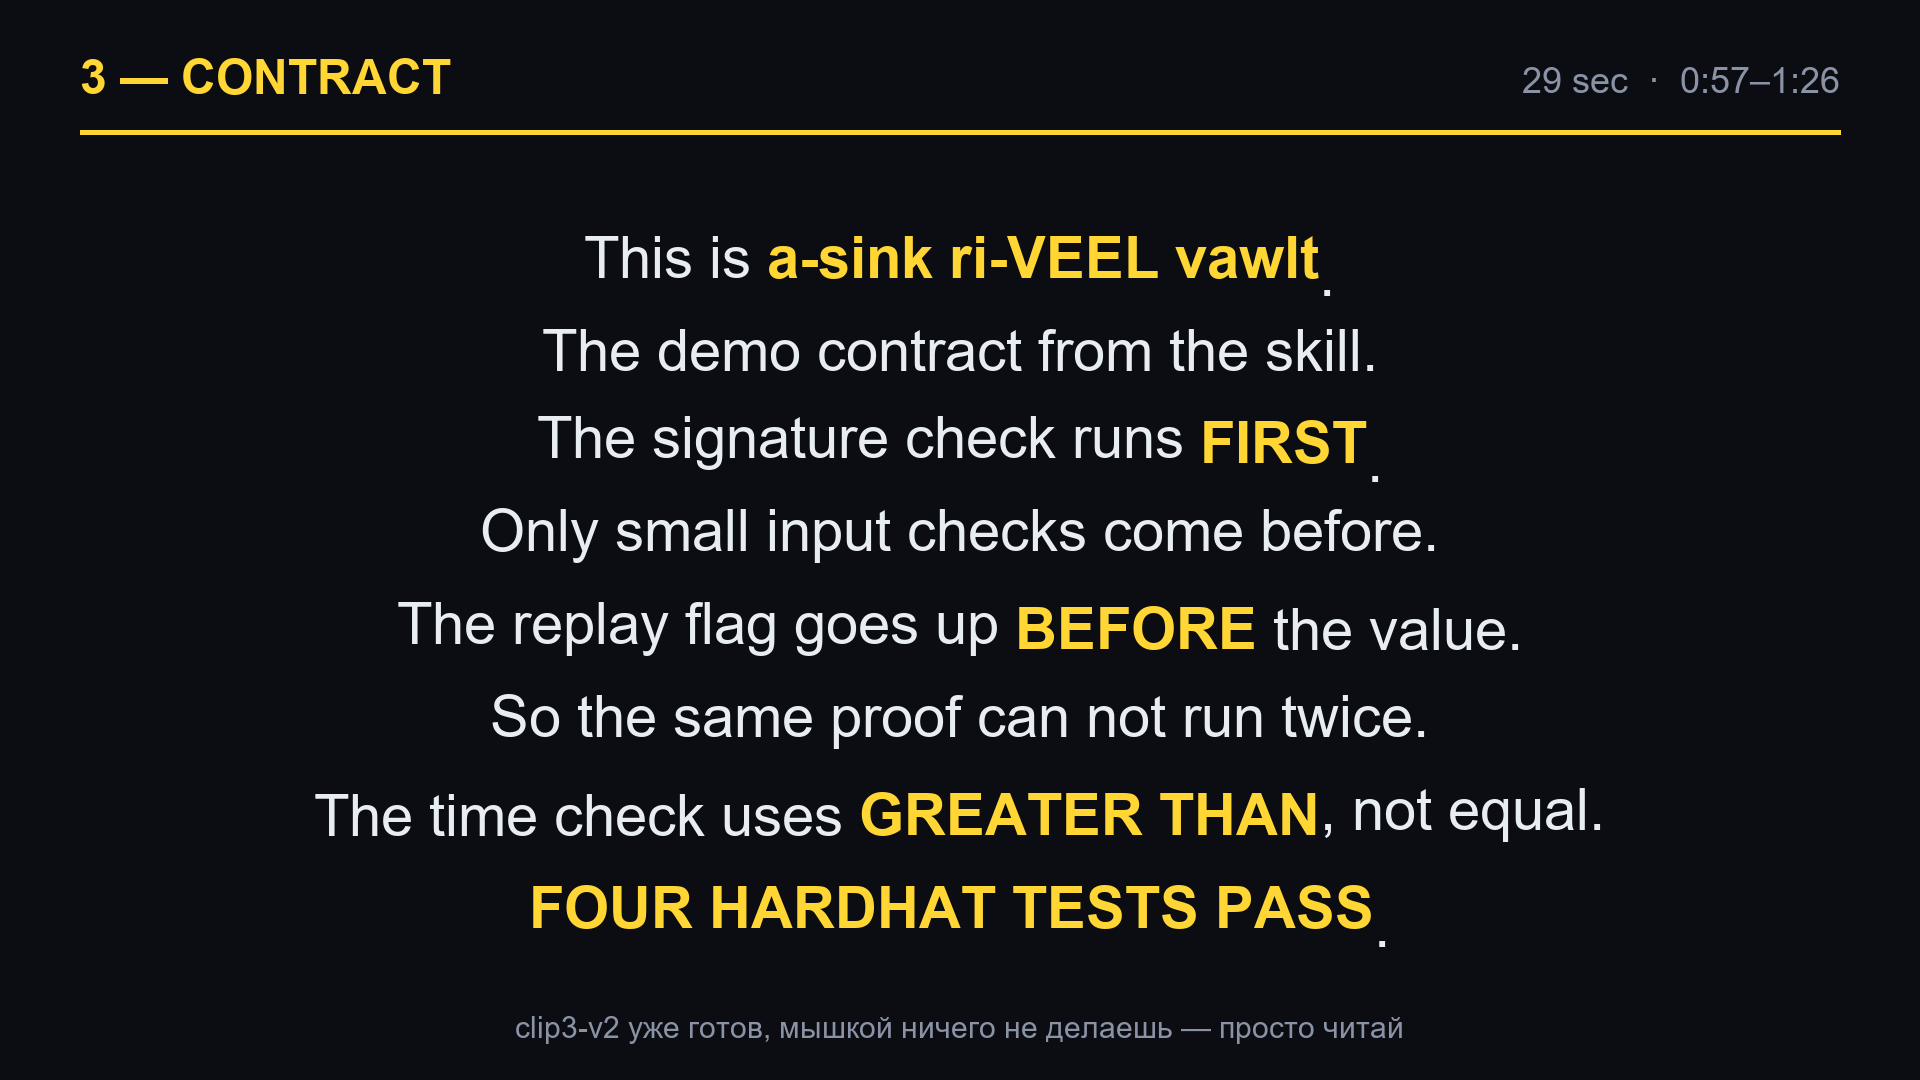
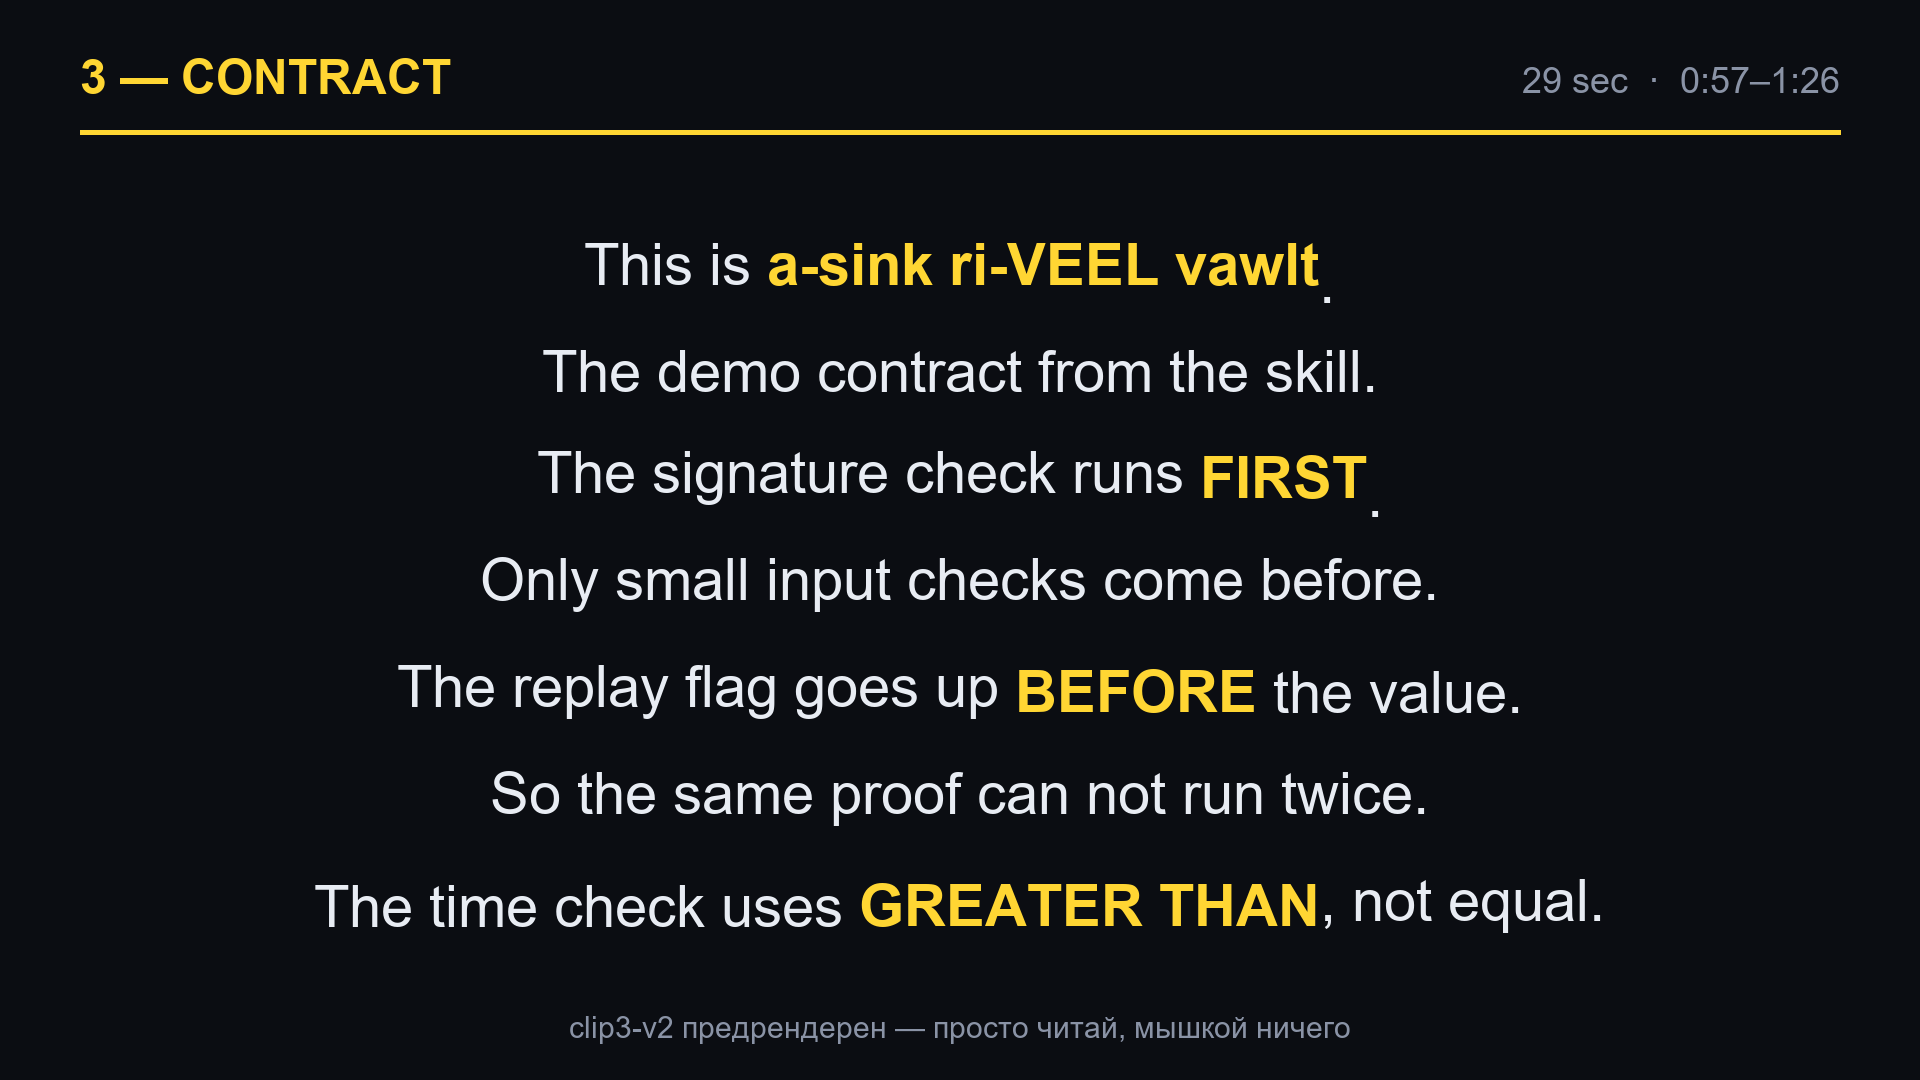
fix(cue-cards): 7-card v2 set matching 7-clip timeline (2:54 total)

Changed region(s): [[0.1562, 0.3056, 0.8438, 0.8556], [0.3125, 0.2139, 0.6875, 0.275], [0.2812, 0.9472, 0.7188, 0.9778]]

diff --git a/scripts/gen_cue_cards_v2.py b/scripts/gen_cue_cards_v2.py
@@ -1,16 +1,18 @@
 """
-Generate v2 teleprompter cue cards for the 2:29 final cut.
+Generate v2 teleprompter cue cards for the final cut.
 
-Differences from gen_cue_cards.py:
-- 6 cards instead of 7 (clip4 tests segment dropped from timeline)
-- seg3 (contract) shortened from 35s to 29s; closer is "Four Hardhat tests pass"
-  (compensates for the removed clip4 messaging)
-- segments renumbered: original seg5a/5b → seg4/seg5; seg6 stays
-- mouse-cue hints removed from seg3 (clip3-v2 is fully pre-rendered,
-  no live VS Code navigation needed)
+Aligns 1:1 with the 7-clip timeline (clip3 cropped to 29s, all others full):
+  clip1-hook-static (22s) → seg1-hook-v2
+  clip2-problem-static (35s) → seg2-problem-v2
+  clip3-contract-v2 (29s) → seg3-contract-v2
+  clip4-tests-static (25s) → seg4-tests-v2
+  clip5a-demo-v2 (20s) → seg5-demo-lock-v2
+  clip5b-reveal-v2 (25s) → seg6-demo-reveal-v2
+  clip6-outro-static (18s) → seg7-outro-v2
+Total: 174s = 2:54
 
 Run:    python scripts/gen_cue_cards_v2.py
-Output: cue-cards/seg1-hook-v2.png .. seg6-outro-v2.png
+Output: cue-cards/seg{1..7}-*-v2.png
 """
 
 from __future__ import annotations
@@ -91,12 +93,24 @@ SEGMENTS = [
             ("The replay flag goes up BEFORE the value.", "BEFORE"),
             ("So the same proof can not run twice.", None),
             ("The time check uses GREATER THAN, not equal.", "GREATER THAN"),
-            ("FOUR HARDHAT TESTS PASS.", "FOUR HARDHAT TESTS PASS"),
         ],
-        "clip3-v2 уже готов, мышкой ничего не делаешь — просто читай",
+        "clip3-v2 предрендерен — просто читай, мышкой ничего",
     ),
     (
-        "seg4-demo-lock-v2", "4 — LIVE DEMO (lock)", "20 sec  ·  1:26–1:46",
+        "seg4-tests-v2", "4 — TESTS", "25 sec  ·  1:26–1:51",
+        [
+            ("Four Hardhat tests run in mock mode.", None),
+            ("They cover the same traps.", None),
+            ("MISSING signature.", "MISSING"),
+            ("REPLAY attack.", "REPLAY"),
+            ("TIME off by one.", "TIME"),
+            ("And the happy path.", None),
+            ("The skill contract PASSES THEM ALL.", "PASSES THEM ALL"),
+        ],
+        "очень медленно, 72 wpm — паузы между MISSING / REPLAY / TIME",
+    ),
+    (
+        "seg5-demo-lock-v2", "5 — LIVE DEMO (lock)", "20 sec  ·  1:51–2:11",
         [
             ("Now the live demo on SEPOLIA.", "SEPOLIA"),
             ("I lock the number SIXTY THREE.", "SIXTY THREE"),
@@ -106,10 +120,10 @@ SEGMENTS = [
             ("Sign.", "Sign"),
             ("Done.", "Done"),
         ],
-        "после Done — открываешь cue card 5",
+        "после Done — открываешь карточку 6 (reveal)",
     ),
     (
-        "seg5-demo-reveal-v2", "5 — LIVE DEMO (reveal)", "25 sec  ·  1:46–2:11",
+        "seg6-demo-reveal-v2", "6 — LIVE DEMO (reveal)", "25 sec  ·  2:11–2:36",
         [
             ("Sixty seconds pass.", None),
             ("I trigger the reveal.", "trigger"),
@@ -122,7 +136,7 @@ SEGMENTS = [
         "финал демо — улыбка в голос",
     ),
     (
-        "seg6-outro-v2", "6 — OUTRO", "18 sec  ·  2:11–2:29",
+        "seg7-outro-v2", "7 — OUTRO", "18 sec  ·  2:36–2:54",
         [
             ("Repo at GIT-hab dot com", "GIT-hab"),
             ("slash KRIP-to ya-SEN-ka", "KRIP-to ya-SEN-ka"),

diff --git a/.planning/VIDEO-VOICEOVER-SIMPLE.md b/.planning/VIDEO-VOICEOVER-SIMPLE.md
@@ -1,53 +1,45 @@
-# Voice-over SIMPLE — fhevm-oracle (≈220 слов, ≈2:29)
+# Voice-over SIMPLE — fhevm-oracle (≈260 слов, ≈2:54)
 
 > **Цель:** простой английский, короткие предложения, минимум сложных кластеров.
 > Каждое предложение ≤8 слов. Темп **медленный** — 85–100 wpm.
 > Голос Yana, не TTS (Zama disqualifying для AI voice).
 > Жирным **акцент** (повышай голос на 1 такт).
->
-> **Перед записью прочитай вслух 3 раза**, отметь карандашом места где спотыкаешься,
-> там сделаешь паузу длиной 0.3 сек — это нормально.
 
 ---
 
-## Произношение сложных слов (фонетика английскими буквами)
+## Произношение сложных слов
 
 | Слово | Произнеси как | Заметка |
 |---|---|---|
-| FHEVM | **«ef eitch ee vee em»** | По буквам, не как слово |
+| FHEVM | **«ef eitch ee vee em»** | По буквам |
 | Sepolia | **«se-PO-lee-a»** | Ударение на PO |
-| AsyncRevealVault | **«a-sink ri-VEEL vawlt»** | 3 слова, не одно |
+| AsyncRevealVault | **«a-sink ri-VEEL vawlt»** | 3 слова |
 | SDK | **«es-dee-kay»** | По буквам |
 | BSD | **«bee-es-dee»** | По буквам |
 | oracle | **«OR-uh-kul»** | Ударение на OR |
-| signature | **«SIG-na-cher»** | «cher» как в «teacher» |
+| signature | **«SIG-na-cher»** | «cher» как в teacher |
 | Hardhat | **«HARD-hat»** | Два слова |
-| MetaMask | **«MET-a-mask»** | Пауза в середине |
-| Ethereum | избегаем — заменили на «on chain» | |
 | crypto-yasenka | **«KRIP-to ya-SEN-ka»** | Дефис = микропауза |
 | github | **«GIT-hab»** | Не «JEE-thab» |
 
 ---
 
-## Структура (6 клипов, clip4 dropped)
+## Структура (7 клипов = 7 cue-cards)
 
-| # | Клип | Длит. | Слов |
-|---|---|---|---|
-| 1 | clip1-hook-static | 22s | 36 |
-| 2 | clip2-problem-static | 35s | 49 |
-| 3 | clip3-contract-v2 (cropped) | 29s | 45 |
-| 4 | clip5a-demo-v2 | 20s | 28 |
-| 5 | clip5b-reveal-v2 | 25s | 36 |
-| 6 | clip6-outro-static | 18s | 30 |
-| | **Total** | **2:29** | **224** |
-
-Средний темп: 224 слов / 149 сек ≈ **90 wpm** — медленный, удобный.
+| # | Cue card | Видео | Длит. | Слов |
+|---|---|---|---|---|
+| 1 | seg1-hook-v2 | clip1-hook-static | 22s | 36 |
+| 2 | seg2-problem-v2 | clip2-problem-static | 35s | 49 |
+| 3 | seg3-contract-v2 | clip3-contract-v2 (cropped) | 29s | 46 |
+| 4 | seg4-tests-v2 | clip4-tests-static | 25s | 30 |
+| 5 | seg5-demo-lock-v2 | clip5a-demo-v2 | 20s | 28 |
+| 6 | seg6-demo-reveal-v2 | clip5b-reveal-v2 | 25s | 36 |
+| 7 | seg7-outro-v2 | clip6-outro-static | 18s | 30 |
+| | | **Total** | **2:54** | **255** |
 
 ---
 
-## Сегмент 1 (0:00–0:22) — Hook | 22s
-
-> Видео: clip1-hook-static.mp4
+## Сегмент 1 (0:00–0:22) — Hook | 22s | clip1 + seg1
 
 «**F H E V M**.
 It keeps your data secret.
@@ -58,9 +50,7 @@ Plus a live contract on **Sepolia**.»
 
 ---
 
-## Сегмент 2 (0:22–0:57) — The problem | 35s
-
-> Видео: clip2-problem-static.mp4
+## Сегмент 2 (0:22–0:57) — Problem | 35s | clip2 + seg2
 
 «AI agents skip the **signature check**.
 So **fake data passes**.
@@ -72,9 +62,7 @@ The skill teaches all **ten traps**.»
 
 ---
 
-## Сегмент 3 (0:57–1:26) — The contract | 29s
-
-> Видео: clip3-contract-v2.mp4 (обрезан с 35s до 29s, без zoom-out на minimap)
+## Сегмент 3 (0:57–1:26) — Contract | 29s | clip3-v2 + seg3
 
 «This is **a-sink ri-VEEL vawlt**.
 The demo contract from the skill.
@@ -82,16 +70,23 @@ The signature check runs **first**.
 Only small input checks come before.
 The replay flag goes up **before** the value goes in.
 So the same proof can not run twice.
-The time check uses **greater than**, not equal.
-**Four Hardhat tests pass.**»
-
-⚠️ Последнее предложение — компенсация за выкинутый clip4 (тесты). Произнеси с акцентом.
+The time check uses **greater than**, not equal.»
 
 ---
 
-## Сегмент 4 (1:26–1:46) — Lock demo | 20s
+## Сегмент 4 (1:26–1:51) — Tests | 25s | clip4 + seg4
 
-> Видео: clip5a-demo-v2.mp4
+«Four Hardhat tests run in mock mode.
+They cover the same traps.
+**Missing** signature.
+**Replay** attack.
+**Time** off by one.
+And the happy path.
+The skill contract **passes them all**.»
+
+---
+
+## Сегмент 5 (1:51–2:11) — Live demo: LOCK | 20s | clip5a-v2 + seg5
 
 «Now the live demo on **Sepolia**.
 I lock the number **sixty three**.
@@ -101,9 +96,7 @@ Lock. Sign. **Done.**»
 
 ---
 
-## Сегмент 5 (1:46–2:11) — Reveal demo | 25s
-
-> Видео: clip5b-reveal-v2.mp4
+## Сегмент 6 (2:11–2:36) — Live demo: REVEAL | 25s | clip5b-v2 + seg6
 
 «Sixty seconds pass.
 I trigger the reveal.
@@ -115,9 +108,7 @@ The number stayed secret until the timer.»
 
 ---
 
-## Сегмент 6 (2:11–2:29) — Outro | 18s
-
-> Видео: clip6-outro-static.mp4
+## Сегмент 7 (2:36–2:54) — Outro | 18s | clip6 + seg7
 
 «Repo at **GIT-hab** dot com slash **KRIP-to ya-SEN-ka** slash f h e v m oracle skill.
 The skill file for the **bounty**.
@@ -127,18 +118,8 @@ Thanks Zama.»
 
 ---
 
-## Запасные фразы (если затупила)
+## Запасные фразы
 
 - «Same prompt, correct contract.»
 - «The skill teaches the safe pattern.»
 - «One file, ten traps, zero bugs.»
-
----
-
-## Что изменилось от v1 скрипта
-
-| Было | Стало | Причина |
-|---|---|---|
-| Total 3:00, 7 сегментов | Total 2:29, 6 сегментов | clip4 (Hardhat tests, 25s) выкинут из таймлайна |
-| Сегмент 3 = 35s, кончался «Two hundred twenty lines. One file.» | Сегмент 3 = 29s, кончается «Four Hardhat tests pass» | clip3-v2 обрезан до 29s (без minimap zoom-out); компенсируем выкинутый clip4 одной фразой про тесты |
-| Сегмент 5 = 45s одним блоком | Сегмент 5a (lock, 20s) + 5b (reveal, 25s) разделены | Соответствует двум клипам clip5a-v2 + clip5b-v2 |